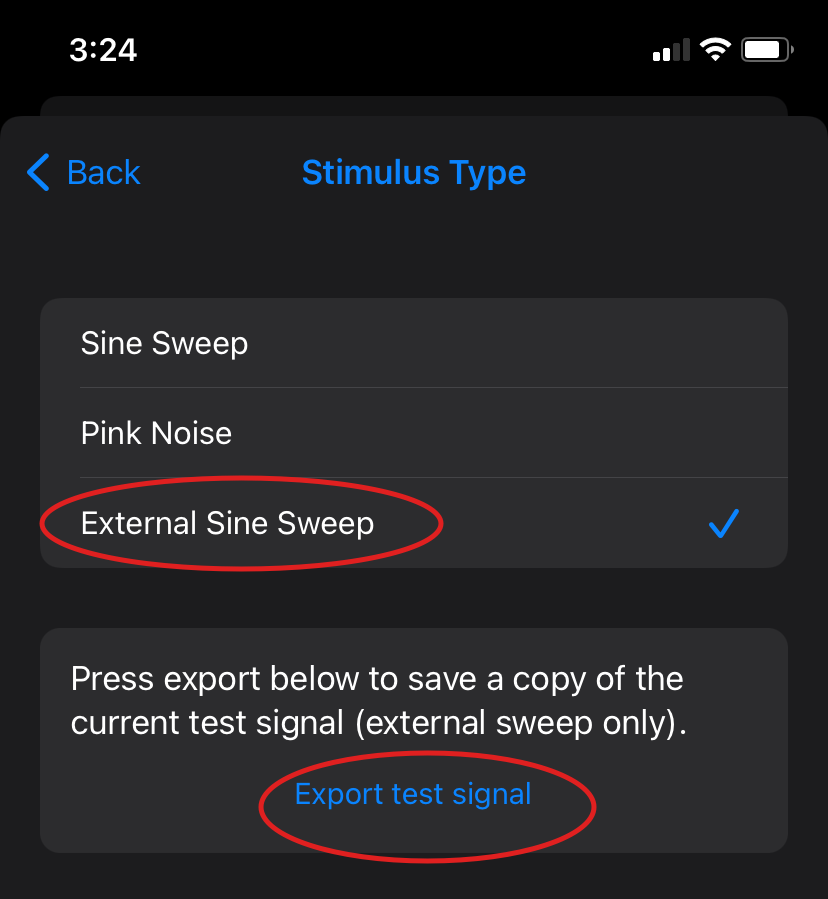
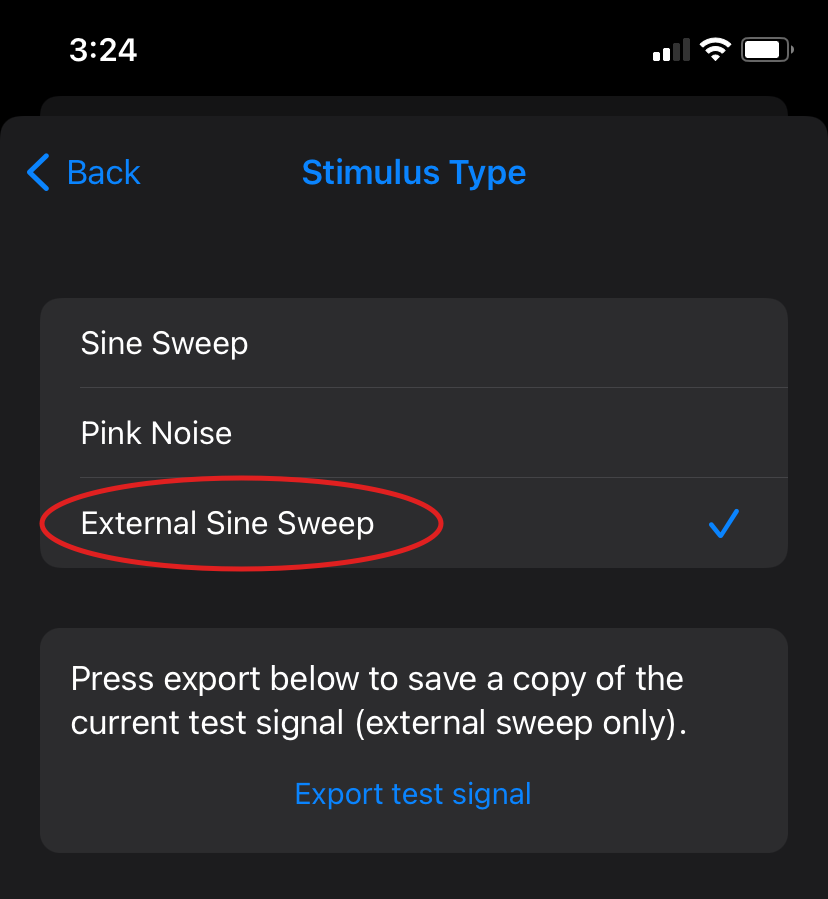
Updating Volumio app note to use FusionDSP sweeps

diff --git a/docs/appnotes/volumio.md b/docs/appnotes/volumio.md
@@ -44,34 +44,24 @@ Using the Volumio control, install the plugin by going to Volumio settings -> pl
 
 ## 2. Get Connected
 
-HouseCurve measures your audio system by listening to it play a sine sweep test signal.  There are several way
-s to do this as described in [connecting](../usage/connecting.md).
+HouseCurve measures your audio system by listening to it play a sine sweep test signal.  There are several ways to do this as described in [connecting](../usage/connecting.md).
 
-For this app note, we will perform measurements using [externally played sweeps](../usage/connecting.md#externally-played-sweeps).  This method doesn't require a direct connection to the audio system.  Instead, we transfer the test signal as a wav file to the audio system and play it manually.  HouseCurve will measure by listening to the test signal as it is played.
+For this app note, we will perform measurements using [externally played sweeps](../usage/connecting.md#externally-played-sweeps).  This method doesn't require a direct connection to the audio system.  Instead, the test signal is played manually while HouseCurve just listens.
 
-This method will work with any audio system, but it requires more steps.  You can skip this and use a direct connection instead, see [connecting](../usage/connecting.md) for more infomration.  Note - at the time of writing this app note, measurements over AirPlay didn't work with Volumio on a Raspberry Pi 3B.  This isn't uncommon for unofficial AirPlay implementations (Shairport-sync, etc).
+The FusionDSP plugin makes this easy by shipping with HouseCurve's test signal.  To access it, go to FusionDSP settings.  In the "Tools" section, select "install tools".  When the install completes, choose HouseCurveTestSignal.wav as the file to play.  Press "Play selected file" to play the sweep.
 
-To transfer files to Volumio's Samba share, open up the [Files](https://apps.apple.com/ca/app/files/id1232058109) app on you iPhone/iPad and select ***Connect to Server***.  Enter the network name of the Volumio device (ex: volumio.local) and connect as a Guest.  HouseCurve will now be able to save to this location.
-
-![Volumio samba share](/assets/img/volumio_connect_server.png "connect to server as guest")
+![fusiondsp tools](/assets/img/volumio_fusiondsp_tools.png "FusionDSP HouseCurve integration")
 {: .app-portrait }
 
-Launch HouseCurve on your iPhone/iPad.  Tap <img src="/assets/img/setup.png" alt="Setup" class="app-icon"> to display the Measure Setup screen, then tap ***Stimulus Type***.
+Next, we need to configure HouseCurve for external sweeps.  Launch HouseCurve on your iPhone/iPad.  Tap <img src="/assets/img/setup.png" alt="Setup" class="app-icon"> to display the Measure Setup screen, then tap ***Stimulus Type***.
 
 ![measure setup](/assets/img/volumio_measure_setup.png "measure setup")
 {: .app-portrait }
 
-Set the stimulus type to  ***External Sine Sweep***.  Tap ***Export test signal*** and select a location to save the wav file and transfer to Volumio's library.
+Set the stimulus type to  ***External Sine Sweep***.
 
-![stimulus type](/assets/img/volumio_stimulus_type.png "select external sine sweep and export test signal")
+![stimulus type](/assets/img/volumio_stimulus_type.png "select external sine sweep")
 {: .app-portrait }
-
-If you save directly to Volumio's Samba share, you will need to refresh the library to see the file.
-
-![Saving to share](/assets/img/volumio_save_signal.png "saving directly to Volumio's library")
-{: .app-portrait }
-
-You should now be able to play the test signal using Volumio.
 
 
 ## 3. Collect Measurements
